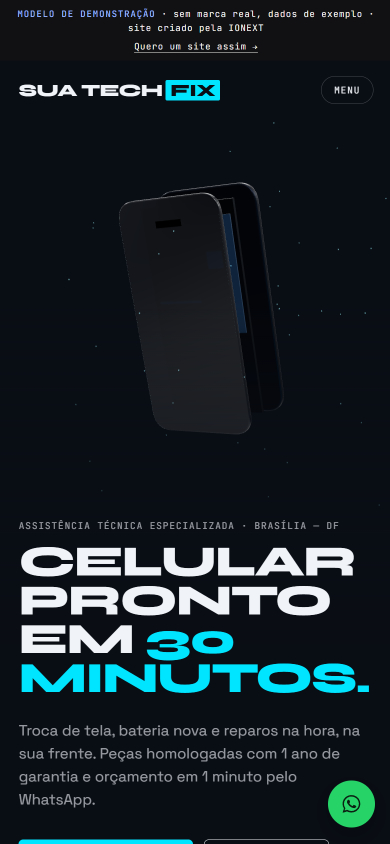
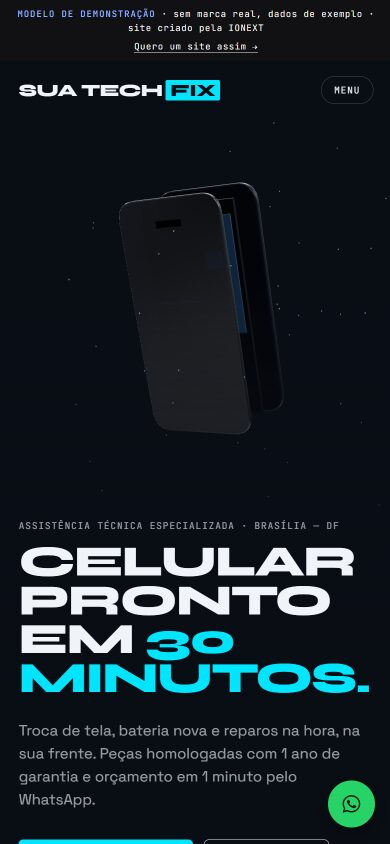
perf: site mais leve sem mudar o visual
- Capturas do portfólio que estavam em JPEG qualidade 100 recomprimidas
  em 82 progressivo (mesmo padrão das demais): ~3,6 MB -> ~0,7 MB.
- Cena 3D: o chunk do three.js continua baixando na hora, mas a cena só é
  montada quando o navegador fica ocioso, liberando a primeira pintura do texto.
- Teste de WebGL libera o contexto descartável logo em seguida.
- .htaccess: gzip para textos, cache de 1 ano para JS/CSS/fontes com hash
  e 7 dias para imagens e vídeos.

Claude-Session: https://claude.ai/code/session_01CfHqRpgzZw9ZrGHEg2Zkff

diff --git a/src/app/features/hero/funnel-scene/funnel-scene.directive.ts b/src/app/features/hero/funnel-scene/funnel-scene.directive.ts
@@ -90,7 +90,10 @@ export class FunnelSceneDirective implements AfterViewInit, OnDestroy {
       return;
     }
     try {
-      const create = await SCENE_LOADERS[this.variant()]();
+      // Baixa o chunk já, mas só monta a cena (shaders, PMREM, geometrias: trabalho
+      // pesado no thread principal) quando o navegador estiver livre, para o texto
+      // e a primeira pintura da página não esperarem pela arte 3D.
+      const [create] = await Promise.all([SCENE_LOADERS[this.variant()](), whenIdle()]);
       if (this.destroyed) return;
       this.ngZone.runOutsideAngular(() => {
         this.scene = create(this.el.nativeElement, {
@@ -111,10 +114,26 @@ export class FunnelSceneDirective implements AfterViewInit, OnDestroy {
   }
 }
 
+/** Resolve depois do próximo quadro, quando o thread principal estiver ocioso (máx. ~600 ms). */
+function whenIdle(): Promise<void> {
+  return new Promise((resolve) => {
+    requestAnimationFrame(() => {
+      if (typeof window.requestIdleCallback === 'function') {
+        window.requestIdleCallback(() => resolve(), { timeout: 600 });
+      } else {
+        setTimeout(resolve, 0);
+      }
+    });
+  });
+}
+
 function webglAvailable(): boolean {
   try {
     const c = document.createElement('canvas');
-    return !!(c.getContext('webgl2') || c.getContext('webgl'));
+    const gl = (c.getContext('webgl2') || c.getContext('webgl')) as WebGLRenderingContext | null;
+    // libera o contexto de teste na hora (o navegador limita quantos ficam abertos)
+    gl?.getExtension('WEBGL_lose_context')?.loseContext();
+    return !!gl;
   } catch {
     return false;
   }
